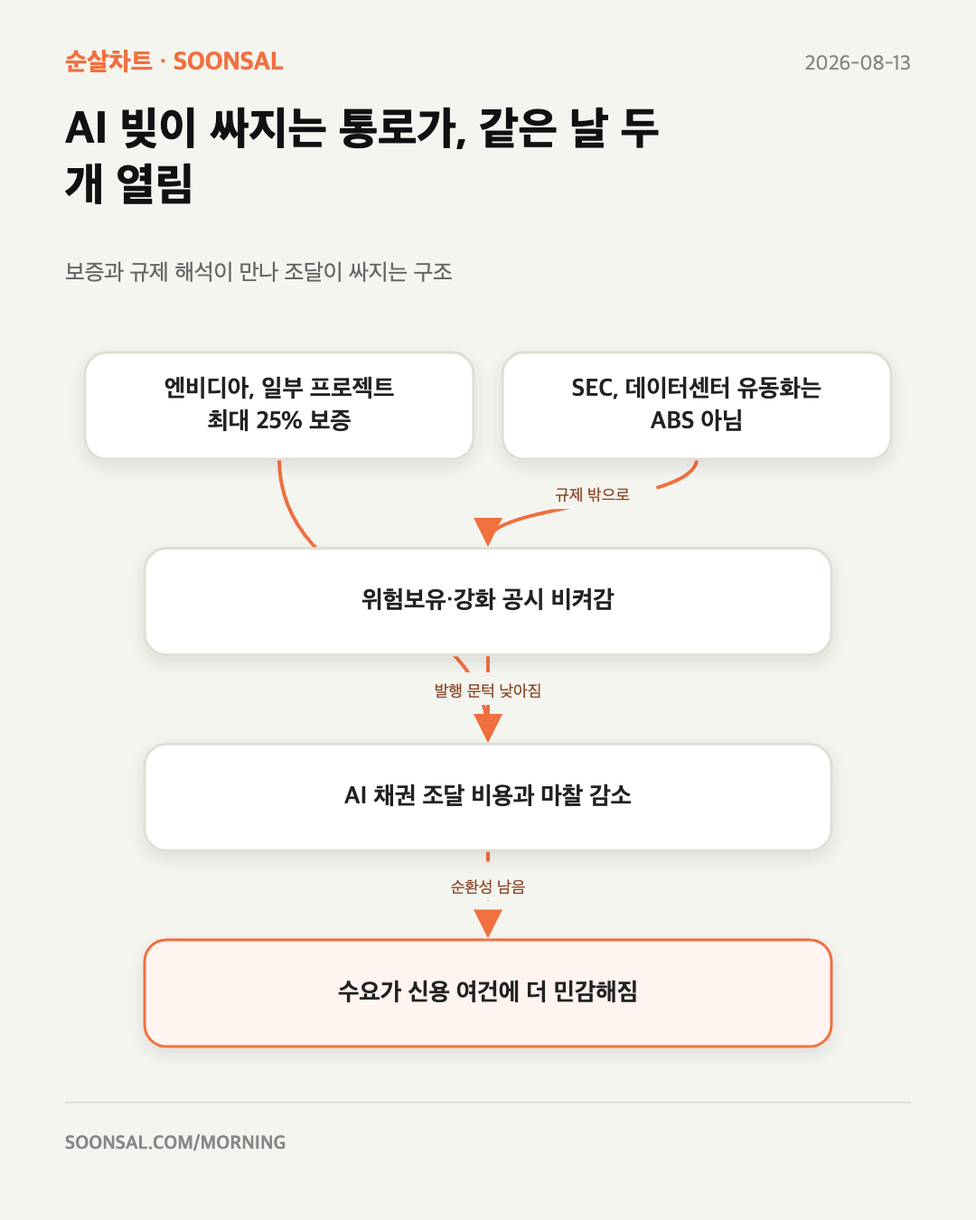
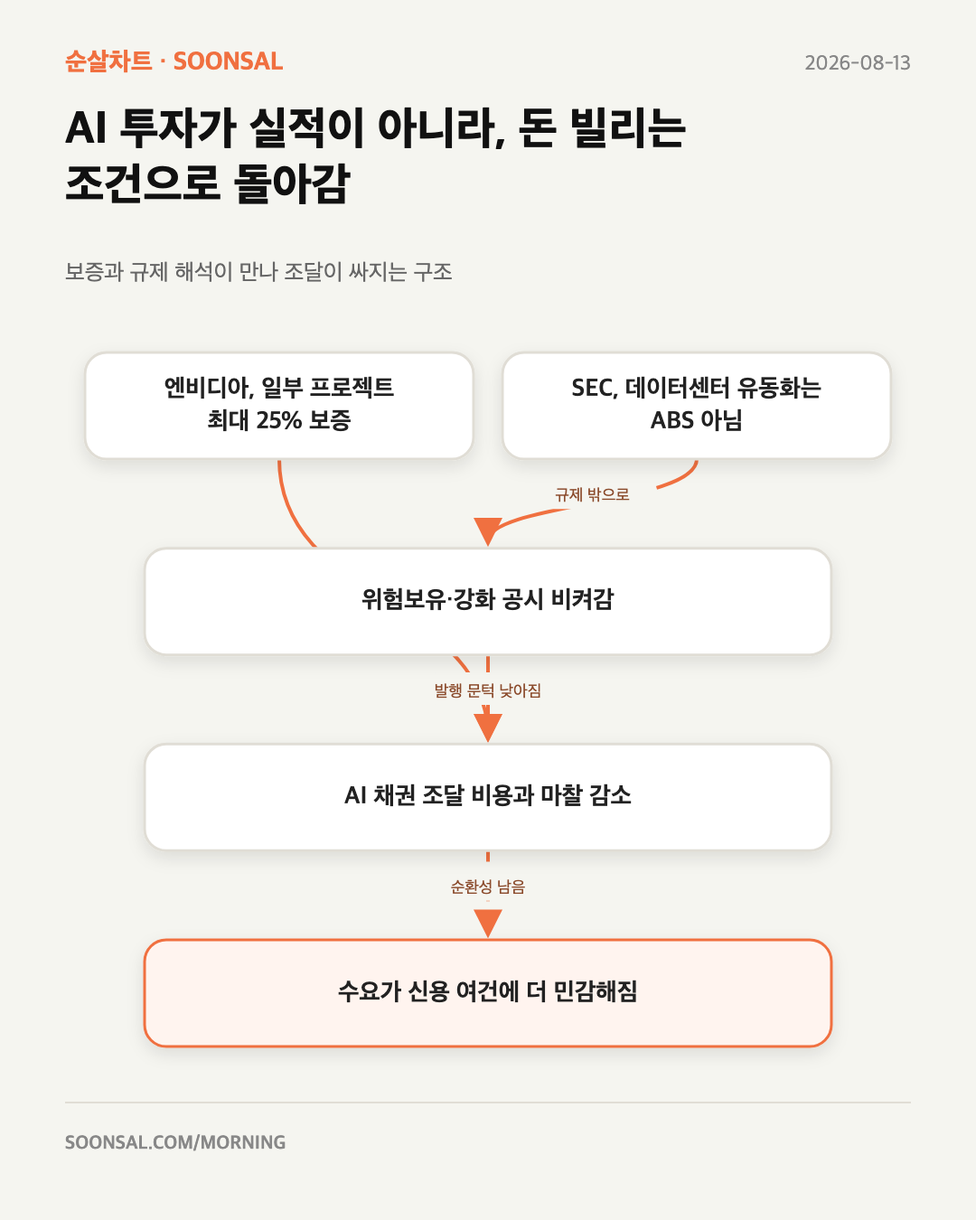
0813 헤드라인 셋을 앵글로 다시 세운다
사실만 옮기면 읽고 나서 남는 게 없다. 재료 안에 이미 있던 대립을 앞으로
끌어올렸다 — 새 사실은 없고, 묻혀 있던 문장의 자리를 바꾼 것이다.

  미국 물가가 예상에 딱 맞으면서, 9월 인상 베팅이 풀림
  → 미국은 인상 명분이 옅어졌는데, 한국은행은 더 올리겠다고 함

  테마섹이 직접 산다는 보도에, 코스피가 하루 3.7% 오름
  → 사모펀드로만 들어오던 테마섹이, 처음으로 직접 삼

  AI 빚이 싸지는 통로가, 같은 날 두 개 열림
  → AI 투자가 실적이 아니라, 돈 빌리는 조건으로 돌아감

엔화 토픽은 재료에 실제 대립이 없어 그대로 뒀다. 없는 구도를 씌우면
그 순간 사실이 아니다.

Changed region(s): [[0.0611, 0.0622, 0.7028, 0.1867]]

diff --git a/school/index.html b/school/index.html
@@ -135,7 +135,103 @@ padding-top:26px;border-top:1px solid #1a1a1a;text-align:center}
  .go{margin-left:0;width:100%;text-align:center;padding:13px;margin-top:2px}
 }
 
-</style></head><body>
+</style><style id="soonsal-nav-visibility-v3">
+.nav-menu a.nav-mobile-only{display:none}
+.nav>a.nav-desktop-link.biz{color:#F07040}
+.nav>a.nav-desktop-link.biz:hover{color:#ff8a52}
+.nav-menu a.biz{color:#F07040}
+@media(max-width:560px){
+  .nav>a.nav-desktop-link{display:none}
+  .nav-menu a.nav-mobile-only{display:block}
+  .nav-more.mobile-active>summary{color:#F07040;border-bottom-color:#F07040}
+  /* 코어 4개 + 더보기 = 5칸. 예전 CSS가 4칸이라 다섯 번째가 다음 줄로 넘어갔다.
+     이 블록은 페이지마다 나중에 주입되므로 안에 박힌 옛 규칙을 덮는다. */
+  .nav{display:grid;grid-template-columns:repeat(4,minmax(0,1fr));width:100%}
+  .nav>a,.nav-more>summary{justify-content:center;padding:11px 2px;font-size:11.5px;
+    letter-spacing:-.4px;overflow:hidden;text-overflow:ellipsis;white-space:nowrap}
+}
+@media(max-width:360px){
+  .nav>a,.nav-more>summary{font-size:10.5px;letter-spacing:-.5px;padding:11px 1px}
+}
+/* ── 눌러보고 싶게 ──────────────────────────────────────
+   탭은 '지금 어디' 말고는 아무것도 알려주지 않는다. 더보기는 특히 그렇다 —
+   안에 뭐가 있는지 모르면 누를 이유가 없다. 세 가지를 바꾼다:
+   (1) 밑줄이 자라며 눌리는 느낌, (2) 화살표가 열림에 반응, (3) 메뉴 안에
+   아이콘을 붙여 목록이 아니라 '갈 곳'으로 보이게. */
+.nav>a,.nav-more>summary{position:relative;transition:color .18s}
+.nav>a:after,.nav-more>summary:after{content:"";position:absolute;left:50%;right:50%;
+bottom:-1px;height:2px;background:#F07040;border-radius:2px;
+transition:left .22s cubic-bezier(.4,0,.2,1),right .22s cubic-bezier(.4,0,.2,1)}
+.nav>a:hover:after,.nav-more>summary:hover:after{left:18%;right:18%}
+.nav>a.active:after,.nav-more.active>summary:after{left:0;right:0}
+
+.nav-more>summary span[aria-hidden]{display:inline-block;transition:transform .22s ease;
+margin-left:2px}
+.nav-more[open]>summary span[aria-hidden]{transform:rotate(180deg)}
+.nav-more[open]>summary{color:#F07040}
+
+.nav-menu{animation:navdrop .18s cubic-bezier(.2,.8,.2,1)}
+@keyframes navdrop{from{opacity:0;transform:translateY(-6px)}to{opacity:1;transform:none}}
+.nav-menu a{transition:background .15s,color .15s,padding-left .15s}
+.nav-menu a:before{margin-right:7px;opacity:.9}
+.nav-menu a[href="/cardnews/"]:before{content:"🎴"}
+.nav-menu a[href="/youtube/"]:before{content:"▶"}
+.nav-menu a[href="/school/"]:before{content:"🎓"}
+.nav-menu a[href="/collab/"]:before{content:"✉"}
+.nav-menu a[href="/talk/"]:before{content:"💬"}
+
+/* 더보기 안에 뭐가 있는지 한 줄로 알려준다 — 열기 전에 궁금해지는 건 이 지점이다 */
+.nav-more>summary:before{content:"";position:absolute;top:9px;right:6px;width:5px;height:5px;
+border-radius:50%;background:#F07040;opacity:0;transition:opacity .2s}
+.nav-more:not([open])>summary:hover:before{opacity:.85}
+@media(max-width:560px){
+  .nav-menu a{text-align:left;padding-left:14px}
+  .nav-more>summary:before{right:3px;top:7px}
+}
+</style>
+</head><body>
+<div id="soonsal-live-ticker" style="display:none;"></div>
+<style>
+#soonsal-live-ticker{position:fixed;top:0;left:0;right:0;width:100%;background:#0a0a0a;border-bottom:1px solid #1a1a1a;overflow:hidden;z-index:99999;user-select:none;-webkit-user-select:none}
+#soonsal-live-ticker::before,#soonsal-live-ticker::after{content:'';position:absolute;top:0;bottom:0;width:48px;z-index:2;pointer-events:none}
+#soonsal-live-ticker::before{left:0;background:linear-gradient(to right,#0a0a0a,transparent)}
+#soonsal-live-ticker::after{right:0;background:linear-gradient(to left,#0a0a0a,transparent)}
+#soonsal-live-ticker .stk-track{display:flex;width:max-content;animation:stk-scroll 90s linear infinite;padding:8px 0}
+#soonsal-live-ticker .stk-track:hover{animation-play-state:paused}
+@keyframes stk-scroll{0%{transform:translateX(0)}100%{transform:translateX(-50%)}}
+#soonsal-live-ticker .stk-item{display:inline-flex;align-items:center;gap:7px;padding:0 16px;border-right:1px solid #1a1a1a;white-space:nowrap;flex-shrink:0}
+#soonsal-live-ticker .stk-lbl{font-family:'DM Sans',-apple-system,sans-serif;font-size:11px;font-weight:600;color:#555;letter-spacing:0.3px;text-transform:uppercase}
+#soonsal-live-ticker .stk-lbl.crypto{color:#F07040}
+#soonsal-live-ticker .stk-prc{font-family:'JetBrains Mono',monospace;font-size:12px;font-weight:500;color:#e0ddd8;letter-spacing:-0.3px}
+#soonsal-live-ticker .stk-chg{font-family:'JetBrains Mono',monospace;font-size:11px;font-weight:500;display:inline-flex;align-items:center;gap:3px;padding:1px 5px;border-radius:3px}
+#soonsal-live-ticker .stk-chg.up{color:#4ade80;background:rgba(74,222,128,0.08)}
+#soonsal-live-ticker .stk-chg.down{color:#f87171;background:rgba(248,113,113,0.08)}
+#soonsal-live-ticker .stk-chg.zero{color:#777}
+#soonsal-live-ticker .au{display:inline-block;width:0;height:0;border-style:solid;border-width:0 3px 5px;border-color:transparent transparent #4ade80}
+#soonsal-live-ticker .ad{display:inline-block;width:0;height:0;border-style:solid;border-width:5px 3px 0;border-color:#f87171 transparent transparent}
+#soonsal-live-ticker .stk-div{display:inline-flex;align-items:center;padding:0 12px;flex-shrink:0}
+#soonsal-live-ticker .stk-div span{width:3px;height:3px;border-radius:50%;background:#F07040}
+#soonsal-live-ticker .stk-ts{display:inline-flex;align-items:center;gap:5px;padding:0 16px;flex-shrink:0}
+#soonsal-live-ticker .stk-dot{width:5px;height:5px;border-radius:50%;background:#4ade80;animation:stk-pulse 2s ease-in-out infinite}
+@keyframes stk-pulse{0%,100%{opacity:1}50%{opacity:0.3}}
+#soonsal-live-ticker .stk-time{font-family:'JetBrains Mono',monospace;font-size:10px;color:#555;letter-spacing:0.5px}
+#soonsal-live-ticker .stk-loading{display:flex;align-items:center;justify-content:center;padding:10px;font-family:'JetBrains Mono',monospace;font-size:11px;color:#555;gap:8px}
+#soonsal-live-ticker .stk-spin{width:10px;height:10px;border:2px solid #222;border-top-color:#F07040;border-radius:50%;animation:stk-sp 0.8s linear infinite}
+@keyframes stk-sp{to{transform:rotate(360deg)}}
+.site-header{margin-top:34px}
+@media(max-width:768px){#soonsal-live-ticker .stk-item{padding:0 12px}#soonsal-live-ticker .stk-lbl{font-size:10px}#soonsal-live-ticker .stk-prc{font-size:11px}#soonsal-live-ticker .stk-chg{font-size:10px}.site-header{margin-top:30px}}
+
+  @media (max-width:768px) {
+    .nav a { padding:12px 14px; font-size:12px; }
+    .sub-btn-header { font-size:11px !important; padding:6px 12px !important; }
+  }
+  @media (max-width:480px) {
+    .sub-btn-header { font-size:10px !important; padding:5px 10px !important; right:10px !important; }
+  }
+</style>
+<script>
+(function(){'use strict';var WORKER_URL='https://soonsal-data.kd-d0a.workers.dev/';var COINGECKO_URL='https://api.coingecko.com/api/v3';var TRADFI_ORDER=['S&P 500','NASDAQ','Dow Jones','KOSPI','US 10Y','WTI Oil','Gold','DXY','EUR/USD','USD/JPY','USD/KRW'];var CRYPTO_ORDER=['Bitcoin','Ethereum','Solana','XRP','BNB','Crypto Total'];var CRYPTO_IDS={'Bitcoin':'bitcoin','Ethereum':'ethereum','Solana':'solana','XRP':'ripple','BNB':'binancecoin'};var REFRESH=60000;var container,timer,lastTradfi,lastCrypto;function init(){container=document.getElementById('soonsal-live-ticker');if(!container)return;container.style.display='block';container.innerHTML='<div class="stk-loading"><div class="stk-spin"></div>Loading market data...</div>';fetchAll();timer=setInterval(fetchAll,REFRESH)}function fetchAll(){var p1=fetchTradFi();var p2=fetchCrypto();Promise.allSettled?Promise.allSettled([p1,p2]).then(render):Promise.all([p1.catch(function(){return null}),p2.catch(function(){return null})]).then(render)}function fetchTradFi(){return fetch(WORKER_URL).then(function(r){return r.json()}).then(function(data){if(data.tradfi)lastTradfi=data;return data}).catch(function(e){console.warn('[Ticker] TradFi error:',e.message);return null})}function fetchCrypto(){var ids=Object.values(CRYPTO_IDS).join(',');var url=COINGECKO_URL+'/simple/price?ids='+ids+'&vs_currencies=usd&include_24hr_change=true&include_market_cap=true';var globalUrl=COINGECKO_URL+'/global';return Promise.all([fetch(url).then(function(r){return r.json()}),fetch(globalUrl).then(function(r){return r.json()}).catch(function(){return null})]).then(function(results){var prices=results[0];var global=results[1];var crypto={};for(var name in CRYPTO_IDS){var id=CRYPTO_IDS[name];var d=prices[id];if(!d)continue;var p=d.usd;var ch=d.usd_24h_change||0;crypto[name]={price:'$'+formatNum(p),change:(ch>=0?'+':'')+ch.toFixed(2)+'%',direction:ch>0.01?'up':ch<-0.01?'down':'zero'}}if(global&&global.data){var mc=global.data.total_market_cap&&global.data.total_market_cap.usd;var mch=global.data.market_cap_change_percentage_24h_usd;if(mc){crypto['Crypto Total']={price:'$'+(mc/1e12).toFixed(2)+'T',change:(mch>=0?'+':'')+(mch||0).toFixed(2)+'%',direction:mch>0?'up':mch<0?'down':'zero'}}}lastCrypto=crypto;return crypto}).catch(function(e){console.warn('[Ticker] Crypto error:',e.message);return null})}function render(){var tradfi=lastTradfi?lastTradfi.tradfi:{};var crypto=lastCrypto||{};var kst=lastTradfi?lastTradfi.kst:new Date().toLocaleString('ko-KR',{timeZone:'Asia/Seoul'});var html=[];html.push('<div class="stk-ts"><span class="stk-dot"></span><span class="stk-time">'+esc(kst)+' KST</span></div>');for(var i=0;i<TRADFI_ORDER.length;i++){var name=TRADFI_ORDER[i];var d=tradfi[name];if(d)html.push(makeItem(name,d,false))}html.push('<div class="stk-div"><span></span></div>');for(var j=0;j<CRYPTO_ORDER.length;j++){var cname=CRYPTO_ORDER[j];var cd=crypto[cname];if(cd)html.push(makeItem(cname,cd,true))}var track=html.join('');container.innerHTML='<div class="stk-track">'+track+track+'</div>'}function makeItem(name,d,isCrypto){var dir=d.direction||'zero';var arrow=dir==='up'?'<span class="au"></span>':dir==='down'?'<span class="ad"></span>':'';return'<div class="stk-item"><span class="stk-lbl'+(isCrypto?' crypto':'')+'">'+esc(name)+'</span><span class="stk-prc">'+esc(d.price)+'</span><span class="stk-chg '+dir+'">'+arrow+' '+esc(d.change)+'</span></div>'}function formatNum(n){if(n>=10000)return n.toLocaleString('en-US',{minimumFractionDigits:2,maximumFractionDigits:2});if(n>=100)return n.toFixed(2);if(n>=1)return n.toFixed(2);return n.toFixed(4)}function esc(s){if(!s)return'';var d=document.createElement('span');d.textContent=String(s);return d.innerHTML}if(document.readyState==='loading'){document.addEventListener('DOMContentLoaded',init)}else{init()}})();
+</script>
 <style>
 .site-header{padding:26px 20px 18px;border-bottom:1px solid #222;display:flex;justify-content:center;position:relative;background:#111}
 .logo-link{display:flex;align-items:center;gap:10px;text-decoration:none;color:#fff}

diff --git a/chart/index.html b/chart/index.html
@@ -152,8 +152,8 @@ color:#8a857c;text-decoration:none}
 <nav class="nav" aria-label="주요 메뉴"><a href="/newsletters/">뉴스레터</a><a href="/chart/" class="active">순살차트</a><a href="/talk/">순살톡</a><a href="/school/" class="nav-desktop-link">스쿨</a><a href="/collab/" class="nav-desktop-link biz">협업 문의</a><details class="nav-more"><summary>더보기 <span aria-hidden="true">⌄</span></summary><section class="nav-menu" aria-label="추가 메뉴"><a href="/topics/">주제별</a><a href="/saved/">내가 모은 글</a><a href="/cardnews/">카드뉴스</a><a href="/youtube/">YouTube</a><a href="/school/" class="nav-mobile-only">스쿨</a><a href="/collab/" class="nav-mobile-only biz">협업 문의</a></section></details></nav>
 <main class="archive-shell"><header class="archive-head"><div class="archive-kicker">날짜별 시장 정리</div><h1>순살차트</h1><p class="deck">날짜를 고르고, 궁금한 주제부터 바로 봄</p></header><section class="archive-list" aria-label="날짜별 순살차트"><article class="issue-card latest">
   <header class="issue-date"><time datetime="2026-08-13">2026-08-13</time><span class="latest-badge">최신</span><span class="issue-count">9개 주제</span></header>
-  <a class="lead-chart" href="2026/0813.html#cpi-hike-trade" aria-label="미국 물가가 예상에 딱 맞으면서, 9월 인상 베팅이 풀림 핵심 차트 보기"><span class="lead-chart-kicker">오늘의 핵심 차트</span><span class="lead-chart-title">미국 물가가 예상에 딱 맞으면서, <span class="topic-highlight">9월 인상 베팅</span>이 풀림</span><img src="/chart/assets/20260813/cpi-hike-trade-diagram-mobile.svg" alt="" loading="eager"></a>
-  <details class="issue-topics"><summary class="issue-head" aria-label="2026-08-13 나머지 주제 목록 접기 또는 펼치기"><span class="issue-more-icon" aria-hidden="true">＋</span><span class="issue-more-copy"><strong><em>8</em>개 차트 더 보기</strong><small>오늘 시장의 다른 흐름도 한 번에</small></span><span class="issue-toggle" aria-hidden="true">⌄</span></summary><div class="issue-body"><ol class="topic-list" aria-label="2026-08-13 나머지 주제 목록"><li><a href="2026/0813.html#temasek-kospi"><span class="topic-no">02</span><span class="topic-title">테마섹이 직접 산다는 보도에, <span class="topic-highlight">코스피가 하루 3.7%</span> 오름</span><span class="topic-go" aria-hidden="true">→</span></a></li><li><a href="2026/0813.html#ai-credit-easing"><span class="topic-no">03</span><span class="topic-title">AI 빚이 싸지는 통로가, <span class="topic-highlight">같은 날 두 개</span> 열림</span><span class="topic-go" aria-hidden="true">→</span></a></li><li><a href="2026/0813.html#phantom-power"><span class="topic-no">04</span><span class="topic-title">AI 데이터센터가 신청한 전력, <span class="topic-highlight">3분의 2는 실제로 안 들어옴</span></span><span class="topic-go" aria-hidden="true">→</span></a></li><li><a href="2026/0813.html#consumer-stress"><span class="topic-no">05</span><span class="topic-title">정가를 지키던 브랜드가, <span class="topic-highlight">지갑 닫은 소비자에게 걸림</span></span><span class="topic-go" aria-hidden="true">→</span></a></li><li><a href="2026/0813.html#tencent-memory"><span class="topic-no">06</span><span class="topic-title">텐센트가 AI 투자를 두 배로 늘렸지만, 한국 메모리엔 <span class="topic-highlight">고르게 오지 않음</span></span><span class="topic-go" aria-hidden="true">→</span></a></li><li><a href="2026/0813.html#korea-trade-fx"><span class="topic-no">07</span><span class="topic-title">원화를 밀어 올리는 건 지금 <span class="topic-highlight">기름값이 아니라 수출</span>임</span><span class="topic-go" aria-hidden="true">→</span></a></li><li><a href="2026/0813.html#hormuz-deficit"><span class="topic-no">08</span><span class="topic-title">호르무즈가 안 풀리는데, <span class="topic-highlight">공급 부족 전망은 더 커짐</span></span><span class="topic-go" aria-hidden="true">→</span></a></li><li><a href="2026/0813.html#yen-anchor"><span class="topic-no">09</span><span class="topic-title">엔화가 어떤 기준에서도, <span class="topic-highlight">너무 멀리 와 있음</span></span><span class="topic-go" aria-hidden="true">→</span></a></li></ol><a class="issue-all" href="2026/0813.html">이날 순살차트 전체 보기 <span aria-hidden="true">→</span></a></div></details>
+  <a class="lead-chart" href="2026/0813.html#cpi-hike-trade" aria-label="미국은 인상 명분이 옅어졌는데, 한국은행은 더 올리겠다고 함 핵심 차트 보기"><span class="lead-chart-kicker">오늘의 핵심 차트</span><span class="lead-chart-title">미국은 인상 명분이 옅어졌는데, 한국은행은 더 올리겠다고 함</span><img src="/chart/assets/20260813/cpi-hike-trade-diagram-mobile.svg" alt="" loading="eager"></a>
+  <details class="issue-topics"><summary class="issue-head" aria-label="2026-08-13 나머지 주제 목록 접기 또는 펼치기"><span class="issue-more-icon" aria-hidden="true">＋</span><span class="issue-more-copy"><strong><em>8</em>개 차트 더 보기</strong><small>오늘 시장의 다른 흐름도 한 번에</small></span><span class="issue-toggle" aria-hidden="true">⌄</span></summary><div class="issue-body"><ol class="topic-list" aria-label="2026-08-13 나머지 주제 목록"><li><a href="2026/0813.html#temasek-kospi"><span class="topic-no">02</span><span class="topic-title">사모펀드로만 들어오던 테마섹이, <span class="topic-highlight">처음으로 직접</span> 삼</span><span class="topic-go" aria-hidden="true">→</span></a></li><li><a href="2026/0813.html#ai-credit-easing"><span class="topic-no">03</span><span class="topic-title">AI 투자가 실적이 아니라, <span class="topic-highlight">돈 빌리는 조건</span>으로 돌아감</span><span class="topic-go" aria-hidden="true">→</span></a></li><li><a href="2026/0813.html#phantom-power"><span class="topic-no">04</span><span class="topic-title">AI 데이터센터가 신청한 전력, <span class="topic-highlight">3분의 2는 실제로 안 들어옴</span></span><span class="topic-go" aria-hidden="true">→</span></a></li><li><a href="2026/0813.html#consumer-stress"><span class="topic-no">05</span><span class="topic-title">정가를 지키던 브랜드가, <span class="topic-highlight">지갑 닫은 소비자에게 걸림</span></span><span class="topic-go" aria-hidden="true">→</span></a></li><li><a href="2026/0813.html#tencent-memory"><span class="topic-no">06</span><span class="topic-title">텐센트가 AI 투자를 두 배로 늘렸지만, 한국 메모리엔 <span class="topic-highlight">고르게 오지 않음</span></span><span class="topic-go" aria-hidden="true">→</span></a></li><li><a href="2026/0813.html#korea-trade-fx"><span class="topic-no">07</span><span class="topic-title">원화를 밀어 올리는 건 지금 <span class="topic-highlight">기름값이 아니라 수출</span>임</span><span class="topic-go" aria-hidden="true">→</span></a></li><li><a href="2026/0813.html#hormuz-deficit"><span class="topic-no">08</span><span class="topic-title">호르무즈가 안 풀리는데, <span class="topic-highlight">공급 부족 전망은 더 커짐</span></span><span class="topic-go" aria-hidden="true">→</span></a></li><li><a href="2026/0813.html#yen-anchor"><span class="topic-no">09</span><span class="topic-title">엔화가 어떤 기준에서도, <span class="topic-highlight">너무 멀리 와 있음</span></span><span class="topic-go" aria-hidden="true">→</span></a></li></ol><a class="issue-all" href="2026/0813.html">이날 순살차트 전체 보기 <span aria-hidden="true">→</span></a></div></details>
 </article><article class="issue-card">
   <header class="issue-date"><time datetime="2026-08-12">2026-08-12</time><span class="issue-count">9개 주제</span></header>
   <a class="lead-chart" href="2026/0812.html#cpi-bond-shorts" aria-label="CPI 숫자보다 무서운 건, 한쪽에 몰린 채권 베팅 핵심 차트 보기"><span class="lead-chart-kicker">오늘의 핵심 차트</span><span class="lead-chart-title">CPI 숫자보다 무서운 건, <span class="topic-highlight">한쪽에 몰린 채권 베팅</span></span><img src="/chart/assets/20260812/cpi-bond-shorts-diagram-mobile.svg" alt="" loading="lazy"></a>

diff --git a/chart/2026/0813.html b/chart/2026/0813.html
@@ -169,24 +169,24 @@ color:#8a857c;text-decoration:none}
 <main class="content"><article class="story morning-topic topic-macro" id="cpi-hike-trade" data-topic-theme="macro" data-ss-story="m20260813-cpi-hike-trade" data-ss-issue="m20260813" style="--topic-accent:#8A4B42;--topic-wash:#FBF1ED;--topic-soft:#F5E2DA">
   <span class="story-index" aria-hidden="true">01</span>
   <div class="story-label">01 · 거시경제 · 금리</div>
-  <h2 class="story-title">미국 물가가 예상에 딱 맞으면서, 9월 인상 베팅이 풀림</h2>
+  <h2 class="story-title">미국은 인상 명분이 옅어졌는데, 한국은행은 더 올리겠다고 함</h2>
   <p class="opening bullet">미국 소비자물가가 헤드라인·근원 모두 시장 예상과 같게 나왔음. 근원은 1년 전 대비 2.5%로 2021년 이후 가장 느린 속도임</p>
   <figure class="diagram-frame"><div class="diagram-live" role="img" aria-label="예상에 맞은 숫자가 인상 베팅을 풀어낸 경로" data-diagram-src="/chart/assets/20260813/cpi-hike-trade-diagram.svg?v=970d37c1eb3e" data-diagram-mobile-src="/chart/assets/20260813/cpi-hike-trade-diagram-mobile.svg?v=4fa589b3af5f" data-diagram-orientation="TB"><picture class="diagram-poster"><source media="(max-width:720px)" srcset="/chart/assets/20260813/cpi-hike-trade-diagram-mobile.svg?v=4fa589b3af5f"><img src="/chart/assets/20260813/cpi-hike-trade-diagram.svg?v=970d37c1eb3e" alt="" aria-hidden="true" loading="lazy"></picture></div><button class="diagram-replay" type="button" aria-label="예상에 맞은 숫자가 인상 베팅을 풀어낸 경로 애니메이션 다시 보기"><span aria-hidden="true">↻</span> 흐름 한 번 더</button><p class="diagram-tip">박스를 누르면 그 단계부터 다시 흐릅니다</p></figure>
   <div class="soonsal-point"><strong>순살 포인트</strong><p>미국은 인상 명분이 옅어졌는데 한국은행은 더 올리겠다고 함. 두 나라가 반대로 가면 원화와 외국인 수급이 먼저 반응함</p></div>
 </article><article class="story morning-topic topic-markets" id="temasek-kospi" data-topic-theme="markets" data-ss-story="m20260813-temasek-kospi" data-ss-issue="m20260813" style="--topic-accent:#8A4B42;--topic-wash:#F7F3EE;--topic-soft:#EAE1D8">
   <span class="story-index" aria-hidden="true">02</span>
   <div class="story-label">02 · 한국 시장 · 반도체</div>
-  <h2 class="story-title">테마섹이 직접 산다는 보도에, 코스피가 하루 3.7% 오름</h2>
+  <h2 class="story-title">사모펀드로만 들어오던 테마섹이, 처음으로 직접 삼</h2>
   <p class="opening bullet">테마섹이 외부 운용사를 거치지 않고 내부 팀으로 삼성전자와 SK하이닉스에 직접 투자하는 방안을 검토 중이라는 보도가 나왔음. 코스피는 6,579.04로 3.7% 올랐고 장중에는 5.1%까지 뛰었음</p>
   <figure class="diagram-frame"><div class="diagram-live" role="img" aria-label="사는 쪽이 바뀌자 매수세가 번진 순서" data-diagram-src="/chart/assets/20260813/temasek-kospi-diagram.svg?v=1912092fed8b" data-diagram-mobile-src="/chart/assets/20260813/temasek-kospi-diagram-mobile.svg?v=58c254282a96" data-diagram-orientation="TB"><picture class="diagram-poster"><source media="(max-width:720px)" srcset="/chart/assets/20260813/temasek-kospi-diagram-mobile.svg?v=58c254282a96"><img src="/chart/assets/20260813/temasek-kospi-diagram.svg?v=1912092fed8b" alt="" aria-hidden="true" loading="lazy"></picture></div><button class="diagram-replay" type="button" aria-label="사는 쪽이 바뀌자 매수세가 번진 순서 애니메이션 다시 보기"><span aria-hidden="true">↻</span> 흐름 한 번 더</button><p class="diagram-tip">박스를 누르면 그 단계부터 다시 흐릅니다</p></figure>
   <div class="soonsal-point"><strong>순살 포인트</strong><p>지난달 AI 조정에서 겨우 올라오던 자리에서 나온 반등임. 대만보다 싸다는 평가가 진짜 좁혀지는지는 며칠간 외국인이 계속 사는지를 봐야 함</p></div>
 </article><article class="story morning-topic topic-markets" id="ai-credit-easing" data-topic-theme="markets" data-ss-story="m20260813-ai-credit-easing" data-ss-issue="m20260813" style="--topic-accent:#8A4B42;--topic-wash:#F7F3EE;--topic-soft:#EAE1D8">
   <span class="story-index" aria-hidden="true">03</span>
   <div class="story-label">03 · AI 인프라 · 크레딧</div>
-  <h2 class="story-title">AI 빚이 싸지는 통로가, 같은 날 두 개 열림</h2>
+  <h2 class="story-title">AI 투자가 실적이 아니라, 돈 빌리는 조건으로 돌아감</h2>
   <p class="opening bullet">엔비디아가 일부 프로젝트의 최대 25%를 잔존가치 보전 방식으로 보증하기로 했음. 같은 날 SEC는 데이터센터 유동화 상당수가 자산유동화증권이 아니라고 해석했음</p>
   <figure class="diagram-frame"><div class="diagram-live" role="img" aria-label="보증과 규제 해석이 만나 조달이 싸지는 구조" data-diagram-src="/chart/assets/20260813/ai-credit-easing-diagram.svg?v=172b05f1d475" data-diagram-mobile-src="/chart/assets/20260813/ai-credit-easing-diagram-mobile.svg?v=9469ce41c73c" data-diagram-orientation="TB"><picture class="diagram-poster"><source media="(max-width:720px)" srcset="/chart/assets/20260813/ai-credit-easing-diagram-mobile.svg?v=9469ce41c73c"><img src="/chart/assets/20260813/ai-credit-easing-diagram.svg?v=172b05f1d475" alt="" aria-hidden="true" loading="lazy"></picture></div><button class="diagram-replay" type="button" aria-label="보증과 규제 해석이 만나 조달이 싸지는 구조 애니메이션 다시 보기"><span aria-hidden="true">↻</span> 흐름 한 번 더</button><p class="diagram-tip">박스를 누르면 그 단계부터 다시 흐릅니다</p></figure>
-  <div class="soonsal-point"><strong>순살 포인트</strong><p>AI 투자가 실적이 아니라 돈 빌리는 조건으로 돌아가는 중임. 이 상태가 길어지면 한국 메모리 주문도 고객사 신용에 같이 묶임</p></div>
+  <div class="soonsal-point"><strong>순살 포인트</strong><p>칩 만드는 쪽이 그 칩 살 돈까지 보증하는 구조라, 수요가 신용 여건에 같이 묶임. 이 상태가 길어지면 한국 메모리 주문도 고객사 신용을 따라감</p></div>
 </article><article class="story morning-topic topic-markets" id="phantom-power" data-topic-theme="markets" data-ss-story="m20260813-phantom-power" data-ss-issue="m20260813" style="--topic-accent:#8A4B42;--topic-wash:#F7F3EE;--topic-soft:#EAE1D8">
   <span class="story-index" aria-hidden="true">04</span>
   <div class="story-label">04 · AI 인프라 · 전력</div>
